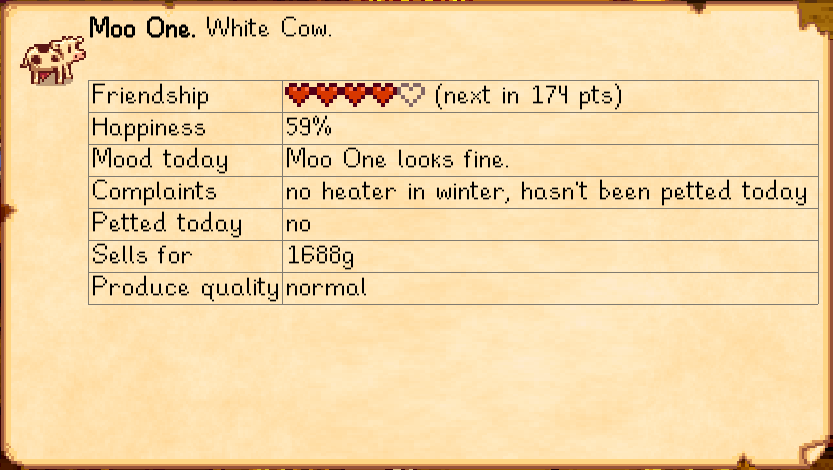
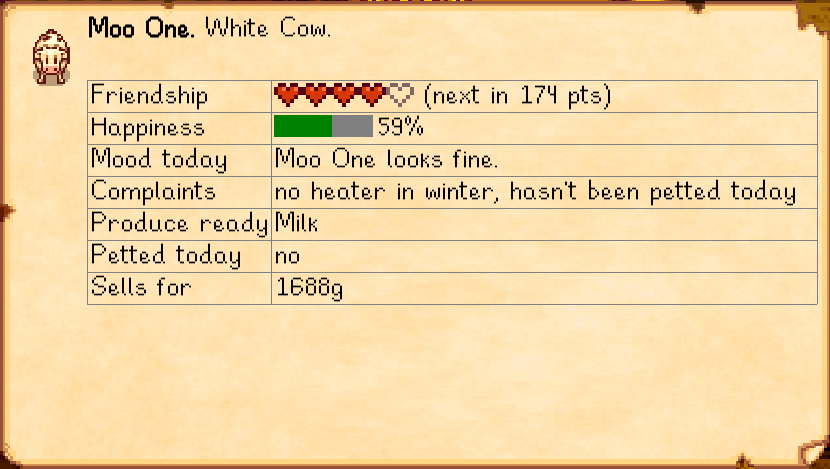
add percentage bar for animal happiness

diff --git a/LookupAnything/Framework/Fields/PercentageBarField.cs b/LookupAnything/Framework/Fields/PercentageBarField.cs
@@ -1,0 +1,76 @@
+using System;
+using Microsoft.Xna.Framework;
+using Microsoft.Xna.Framework.Graphics;
+using Pathoschild.LookupAnything.Components;
+
+namespace Pathoschild.LookupAnything.Framework.Fields
+{
+    /// <summary>A metadata field which shows a progress bar UI.</summary>
+    public class PercentageBarField : GenericField
+    {
+        /*********
+        ** Properties
+        *********/
+        /// <summary>The current progress value.</summary>
+        private readonly int CurrentValue;
+
+        /// <summary>The maximum progress value.</summary>
+        private readonly int MaxValue;
+
+        /// <summary>The text to show next to the progress bar (if any).</summary>
+        private readonly string Text;
+
+        /// <summary>The color of the filled bar.</summary>
+        private readonly Color FilledColor;
+
+        /// <summary>The color of the empty bar.</summary>
+        private readonly Color EmptyColor;
+
+        /*********
+        ** Public methods
+        *********/
+        /// <summary>Construct an instance.</summary>
+        /// <param name="label">A short field label.</param>
+        /// <param name="currentValue">The current progress value.</param>
+        /// <param name="maxValue">The maximum progress value.</param>
+        /// <param name="filledColor">The color of the filled bar.</param>
+        /// <param name="emptyColor">The color of the empty bar.</param>
+        /// <param name="text">The text to show next to the progress bar (if any).</param>
+        public PercentageBarField(string label, int currentValue, int maxValue, Color filledColor, Color emptyColor, string text)
+            : base(label, null, hasValue: true)
+        {
+            this.CurrentValue = currentValue;
+            this.MaxValue = maxValue;
+            this.FilledColor = filledColor;
+            this.EmptyColor = emptyColor;
+            this.Text = text;
+        }
+
+        /// <summary>Draw the value (or return <c>null</c> to render the <see cref="GenericField.Value"/> using the default format).</summary>
+        /// <param name="sprites">The sprite batch in which to draw.</param>
+        /// <param name="font">The recommended font.</param>
+        /// <param name="position">The position at which to draw.</param>
+        /// <param name="wrapWidth">The maximum width before which content should be wrapped..</param>
+        /// <returns>Returns the drawn dimensions, or <c>null</c> to draw the <see cref="GenericField.Value"/> using the default format.</returns>
+        public override Vector2? DrawValue(SpriteBatch sprites, SpriteFont font, Vector2 position, float wrapWidth)
+        {
+            // calculate bars
+            int barHeight = 22;
+            float ratio = this.CurrentValue / (this.MaxValue * 1f);
+            float maxWidth = Math.Min(100, wrapWidth);
+            float filledWidth = maxWidth * ratio;
+            float emptyWidth = maxWidth - filledWidth;
+
+            // draw
+            if (filledWidth > 0)
+                sprites.Draw(Sprites.GetPixel(), new Rectangle((int)position.X, (int)position.Y, (int)filledWidth, barHeight), this.FilledColor);
+            if (emptyWidth > 0)
+                sprites.Draw(Sprites.GetPixel(), new Rectangle((int)(position.X + filledWidth), (int)position.Y, (int)emptyWidth, barHeight), this.EmptyColor);
+            Vector2 textSize = !string.IsNullOrWhiteSpace(this.Text)
+                ? sprites.DrawStringBlock(font, this.Text, new Vector2(position.X + maxWidth + 3, position.Y), wrapWidth)
+                : Vector2.Zero;
+
+            return new Vector2(maxWidth + 3 + textSize.X, Math.Max(barHeight, textSize.Y));
+        }
+    }
+}

diff --git a/LookupAnything/Framework/Subjects/FarmAnimalSubject.cs b/LookupAnything/Framework/Subjects/FarmAnimalSubject.cs
@@ -31,7 +31,7 @@ namespace Pathoschild.LookupAnything.Framework.Subjects
             bool isFullyGrown = animal.age >= animal.ageWhenMature;
             this.AddCustomFields(
                 new CharacterFriendshipField("Friendship", animal.friendshipTowardFarmer, Constant.AnimalFriendshipPointsPerLevel, Constant.AnimalFriendshipMaxPoints),
-                new GenericField("Happiness", $"{Math.Round(animal.happiness / (byte.MaxValue * 1f) * 100)}%"),
+                new PercentageBarField("Happiness", animal.happiness, byte.MaxValue, Color.Green, Color.Gray, $"{Math.Round(animal.happiness / (byte.MaxValue * 1f) * 100)}%"),
                 new GenericField("Mood today", animal.getMoodMessage()),
                 new GenericField("Complaints", this.GetMoodReason(animal)),
                 new GenericField("Produce ready", animal.currentProduce > 0 ? new StardewValley.Object(animal.currentProduce, 1).name : null),
